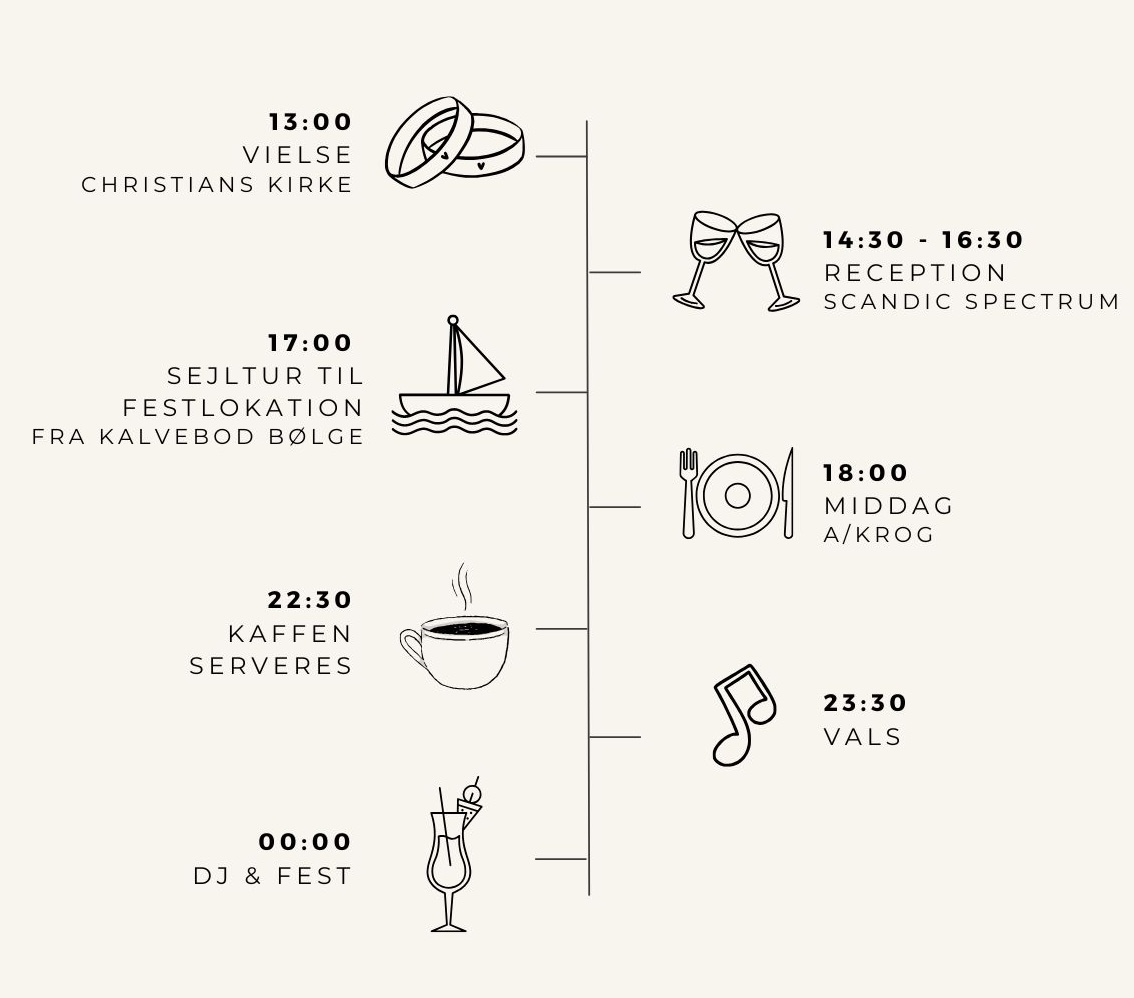
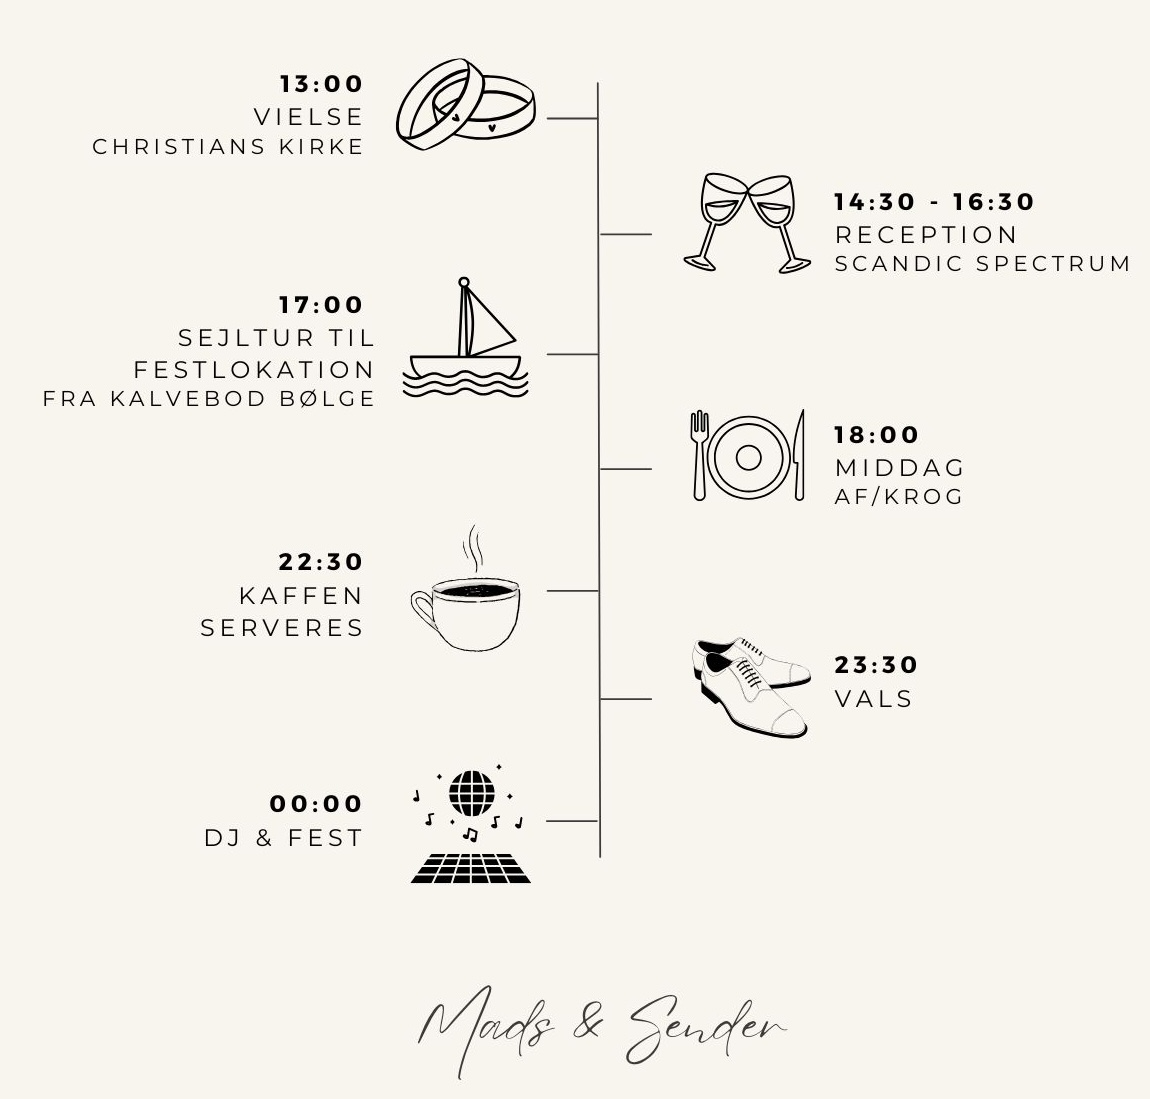
Rettelser

diff --git a/src/index.html b/src/index.html
@@ -10,6 +10,7 @@
 		<meta charset="utf-8" />
 		<meta name="viewport" content="width=device-width, initial-scale=1, user-scalable=no" />
 		<link rel="stylesheet" href="assets/css/main.css" />
+		<link href="https://fonts.googleapis.com/css2?family=Great+Vibes&family=Italianno&display=swap" rel="stylesheet">
 		<noscript><link rel="stylesheet" href="assets/css/noscript.css" /></noscript>
 	</head>
 	<body class="is-preload">
@@ -34,8 +35,10 @@
 				<!-- Intro -->
 					<section id="intro" class="wrapper style1 fullscreen fade-up">
 						<div class="inner">
-							<h1>Velkommen til Mads & Senders bryllup</h1>
-							<p>21 Juni 2025</a></p>
+							<h1>
+								Sender & Mads'<br>
+								<span>Bryllup - 21 Juni 2025</span>
+							</h1>
 							<p>Det er en stor fornøjelse at vi inviterer jer til vores bryllup. Vi glæder os til at se jer til en dag fyldt med kærlighed, smil og festligheder. Vi håber I vil være med til vores dag til noget helt særligt og uforglemmeligt.</p>
 							<p>Kærlig hilsen
 								Mads og Sender</a></p>
